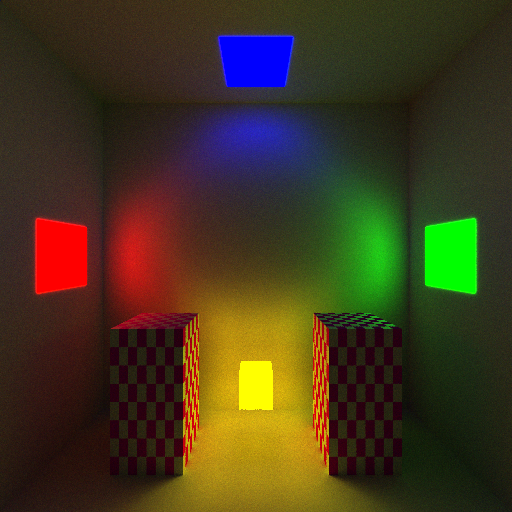
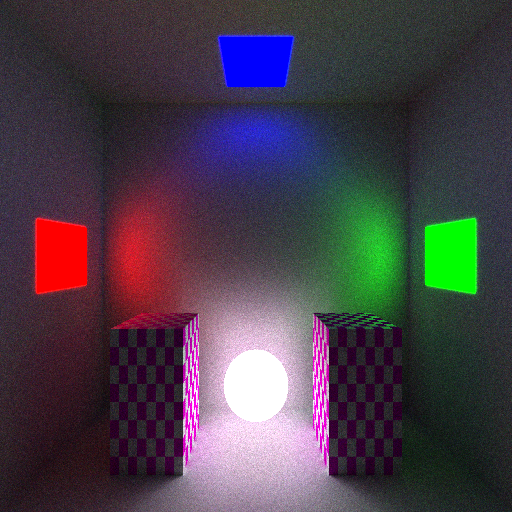
Sphere intersection implemented.

diff --git a/src/sphere.rs b/src/sphere.rs
@@ -23,7 +23,29 @@ impl Sphere {
 }
 
 impl Node for Sphere {
-    fn intersects_ray(&self, _ray: &Ray) -> Option<Intersection> {
-        unimplemented!()
+    fn intersects_ray(&self, ray: &Ray) -> Option<Intersection> {
+        let a = ray.direction.sq_len();
+        let b = ray.origin - self.position;
+        let c = 2.0*ray.direction.dot(b);
+        let d = b.sq_len() - self.radius*self.radius;
+        if c*c - 4.0*a*d < 0.0 {
+            return None
+        }
+        let t = (-c - (c*c - 4.0*a*d).sqrt())/(2.0*a);
+        if t < ray.t_min || t > ray.t_max {
+            return None
+        }
+        let position = ray.origin + ray.direction*t;
+        let mut normal = (position - self.position).normalize();
+        if normal.dot(ray.direction) > 0.0 {
+            normal *= -1.0;
+        }
+        Some(Intersection {
+            position,
+            normal,
+            color: self.color,
+            t,
+            emission: self.emission,
+        })
     }
 }

diff --git a/examples/main.rs b/examples/main.rs
@@ -5,6 +5,7 @@ use render_mate::Framebuffer;
 use render_mate::Mesh;
 use render_mate::PointLight;
 use render_mate::Scene;
+use render_mate::Sphere;
 use render_mate::Texture;
 use render_mate::Vec3;
 
@@ -54,14 +55,25 @@ fn main() {
 
     scene.add_node(&light2);
 
-    let light3 = Mesh::new_cube(
-        &yellow_texture,
+    //let light3 = Mesh::new_cube(
+    //    &yellow_texture,
+    //    Vec3::new(0.0, -1.0, 1.0),
+    //    Vec3::new(0.25, 0.25, 0.25),
+    //    5.0,
+    //);
+
+    //scene.add_node(&light3);
+
+
+    let light4 = Sphere::new(
         Vec3::new(0.0, -1.0, 1.0),
-        Vec3::new(0.25, 0.25, 0.25),
-        5.0,
+        0.25,
+        Color::new(1.0, 1.0, 1.0, 1.0),
+        3.0,
     );
 
-    scene.add_node(&light3);
+    scene.add_node(&light4);
+
 
     let box0 = Mesh::new_cube(
         &null_texture,

diff --git a/src/scene.rs b/src/scene.rs
@@ -31,7 +31,7 @@ impl<'a> Scene<'a> {
     }
 
     pub fn render(&self, camera: &Camera, framebuffer: &mut Framebuffer) {
-        let sample_count = 1000;
+        let sample_count = 200;
         for y in 0..framebuffer.get_extent().height {
             for x in 0..framebuffer.get_extent().width {
                 let ray = camera.get_ray(x, y);

diff --git a/src/bounding_box.rs b/src/bounding_box.rs
@@ -16,6 +16,11 @@ impl BoundingBox {
             max,
         }
     }
+
+    #[inline]
+    pub fn size(&self) -> Vec3 {
+        self.max - self.min
+    }
 }
 
 impl BoundingVolume for BoundingBox {

diff --git a/src/framebuffer.rs b/src/framebuffer.rs
@@ -62,4 +62,8 @@ impl Framebuffer {
         }
         image.save(path).unwrap();
     }
+
+    pub fn from_merge(_framebuffers: &[Framebuffer]) -> Framebuffer {
+        unimplemented!()
+    }
 }
